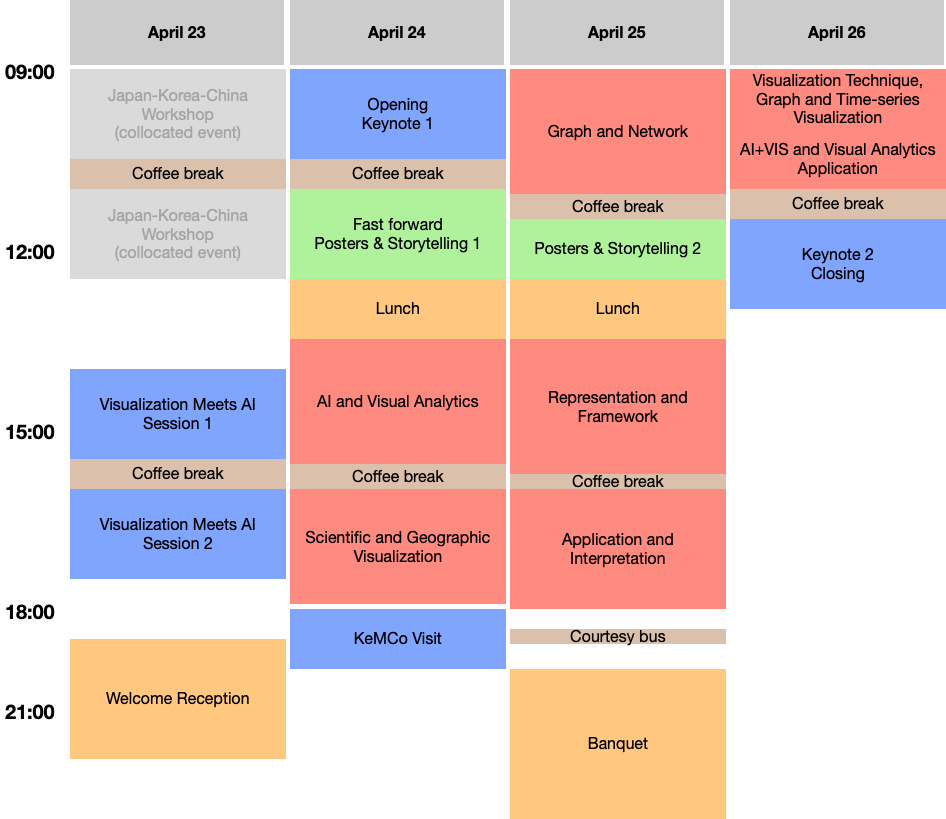
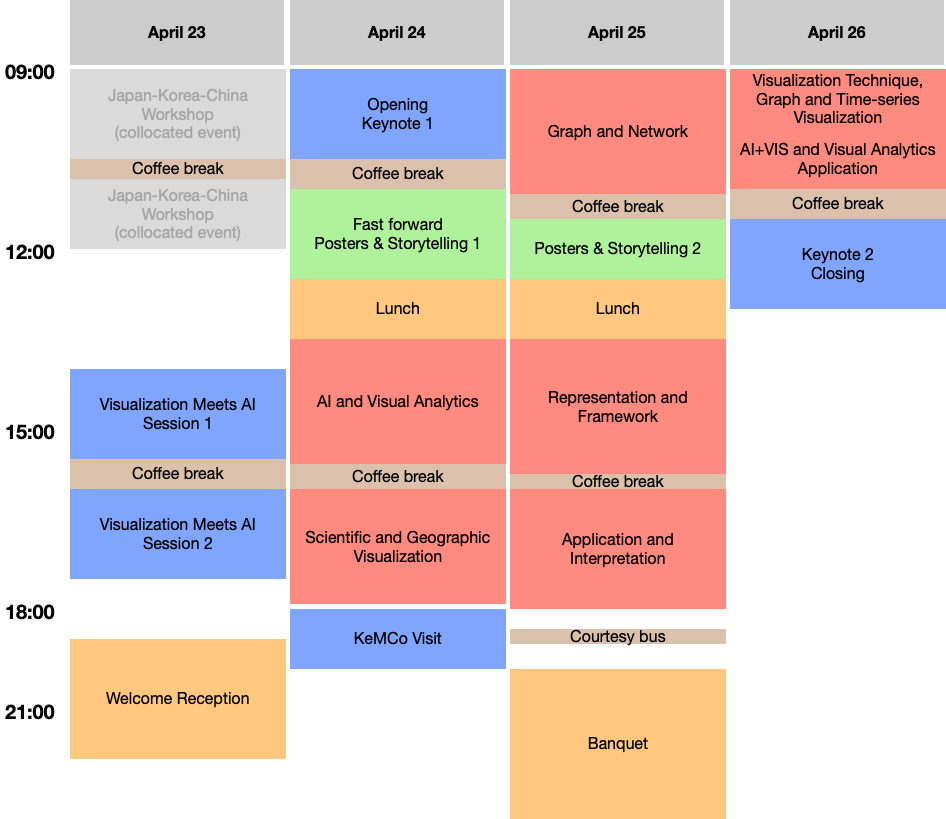
program at a glance

Changed region(s): [[0.0613, 0.1832, 0.3066, 0.3663]]

diff --git a/docs/program/index.html b/docs/program/index.html
@@ -248,9 +248,11 @@
 	<area shape="rect" coords="290,609,506,669" href="/pvis2024/attend/events/#visit-to-kemco-april-24-wed" />
 	<area shape="rect" coords="510,669,726,819" href="/pvis2024/attend/events/#banquet-april-25-thu" />
 	<area shape="rect" coords="290,69,506,159" href="/pvis2024/program/keynote/#huamin_qu" />
+	<area shape="rect" coords="70,179,286,249" href="/pvis2024/program/jkc7/" />
 	<area shape="rect" coords="70,369,286,459" href="/pvis2024/program/workshop/#1400-1530-workshop-session-i-ai4vis" />
 	<area shape="rect" coords="70,489,286,579" href="/pvis2024/program/workshop/#1600-1730-workshop-session-ii-vis4ai" />
 	<area shape="rect" coords="70,639,286,759" href="/pvis2024/attend/events/#welcome-reception-april-23-tue" />
+	<area shape="rect" coords="70,69,286,159" href="/pvis2024/program/jkc7/" />
 </map>
 <p><img border="0" src="/pvis2024/assets/images/program/pvis2024.png" usemap="#GraffleExport" /></p>
 

diff --git a/pages/program/index.md b/pages/program/index.md
@@ -19,8 +19,10 @@ date: 2024-03-21
 	<area shape=rect coords="290,609,506,669" href="/pvis2024/attend/events/#visit-to-kemco-april-24-wed">
 	<area shape=rect coords="510,669,726,819" href="/pvis2024/attend/events/#banquet-april-25-thu">
 	<area shape=rect coords="290,69,506,159" href="/pvis2024/program/keynote/#huamin_qu">
+	<area shape=rect coords="70,179,286,249" href="/pvis2024/program/jkc7/">
 	<area shape=rect coords="70,369,286,459" href="/pvis2024/program/workshop/#1400-1530-workshop-session-i-ai4vis">
 	<area shape=rect coords="70,489,286,579" href="/pvis2024/program/workshop/#1600-1730-workshop-session-ii-vis4ai">
 	<area shape=rect coords="70,639,286,759" href="/pvis2024/attend/events/#welcome-reception-april-23-tue">
+	<area shape=rect coords="70,69,286,159" href="/pvis2024/program/jkc7/">
 </map>
 <img border=0 src="/pvis2024/assets/images/program/pvis2024.png" usemap="#GraffleExport">
